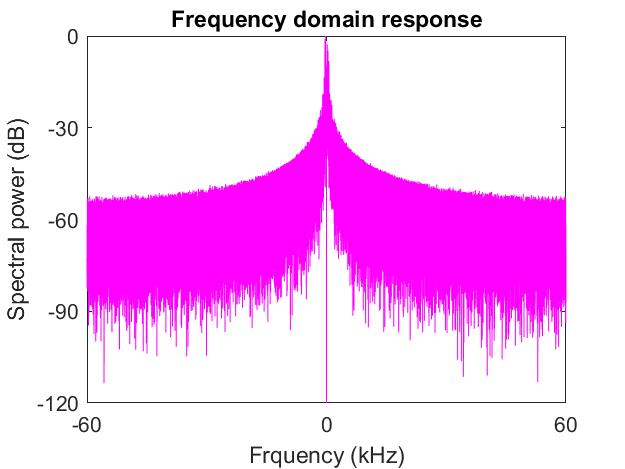
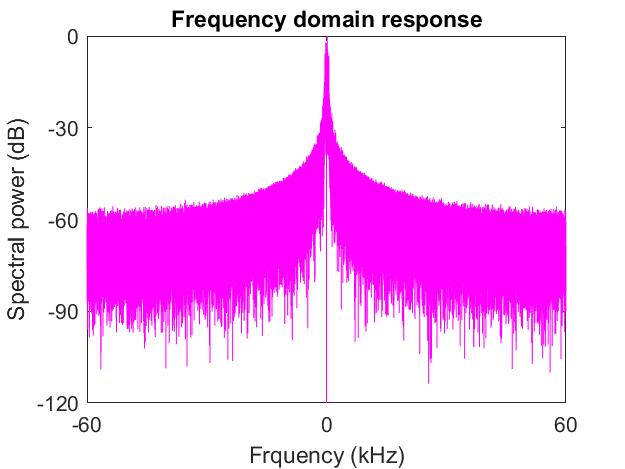
-

Changed region(s): [[0.1216, 0.209, 0.912, 0.806], [0.5168, 0.0896, 0.5472, 0.1493]]

diff --git a/project-files/subgroupA/test1_xm112.m b/project-files/subgroupA/test1_xm112.m
@@ -10,7 +10,7 @@ Rstep  = 4.8400e-04;    % meter
 
 FrameRate = 128;
 
-filename = "raw data xm122\0.3-0.6 30hZ 128frames\right 2.h5";
+filename = "raw data xm122\0.3-0.6 40Hz 128 frames new ideas\swipe right 2.h5";
 info = h5info(filename);
 
 data = h5read(filename, "/data");
